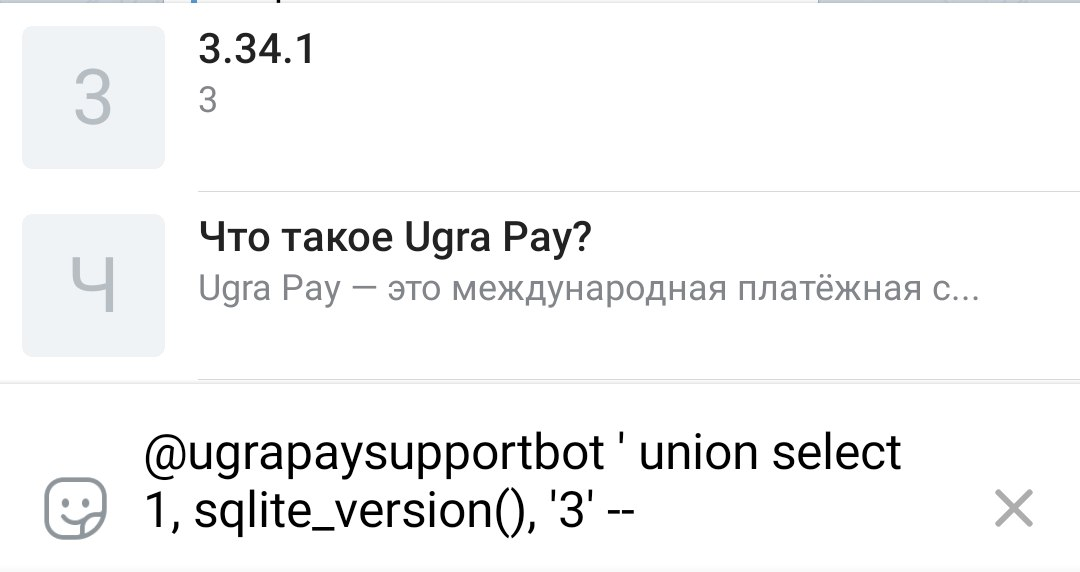
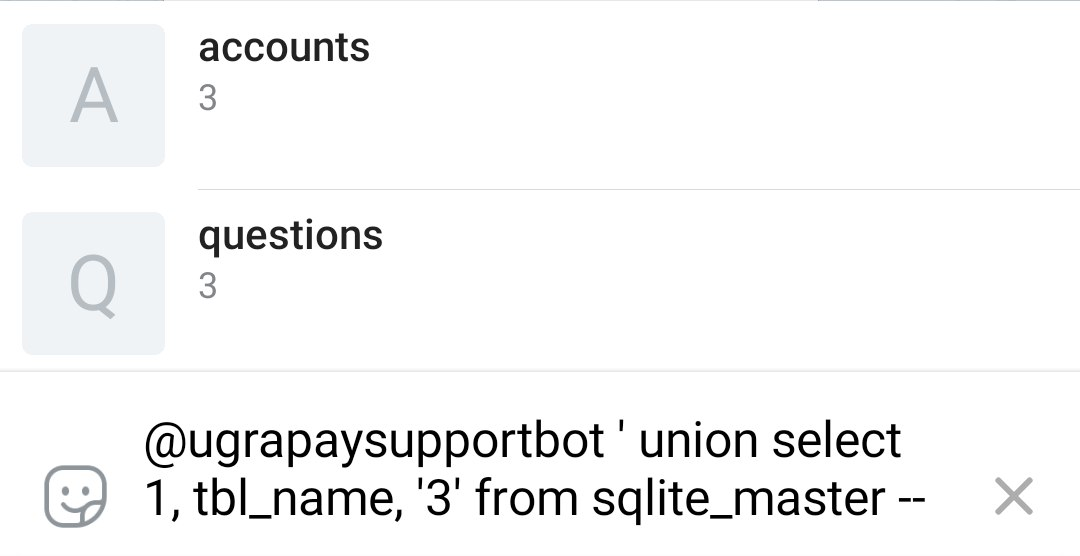
support: one more image fix

diff --git a/tasks/support/WRITEUP.md b/tasks/support/WRITEUP.md
@@ -27,7 +27,7 @@
 
 Мы будем использовать один из самых популярных способов эксплуатации инъекций — добавление новых данных через оператор `UNION`: он добавляет к одной таблицу другую. Чтобы его использовать, нам понадобится узнать количество столбцов в запросе и их типы. Простым перебором узнаём, что начало запроса возвращает три столбца, второй и третий отдаются в результатах запроса (и являются строками).
 
-<img src="images/union-simple.jpg" title="Определение числа столбцов" width="500" />
+<img src="images/columns.jpg" title="Определение числа столбцов" width="500" />
 
 Чтобы успешно проэксплуатировать SQL-инъекцию, нам нужно узнать, какая конкретно СУБД находится на сервере. В этом нам помогут различные способы извлечь версию базы данных. Перебираем способы для всех популярных СУБД, и узнаём, что это SQLite:
 
